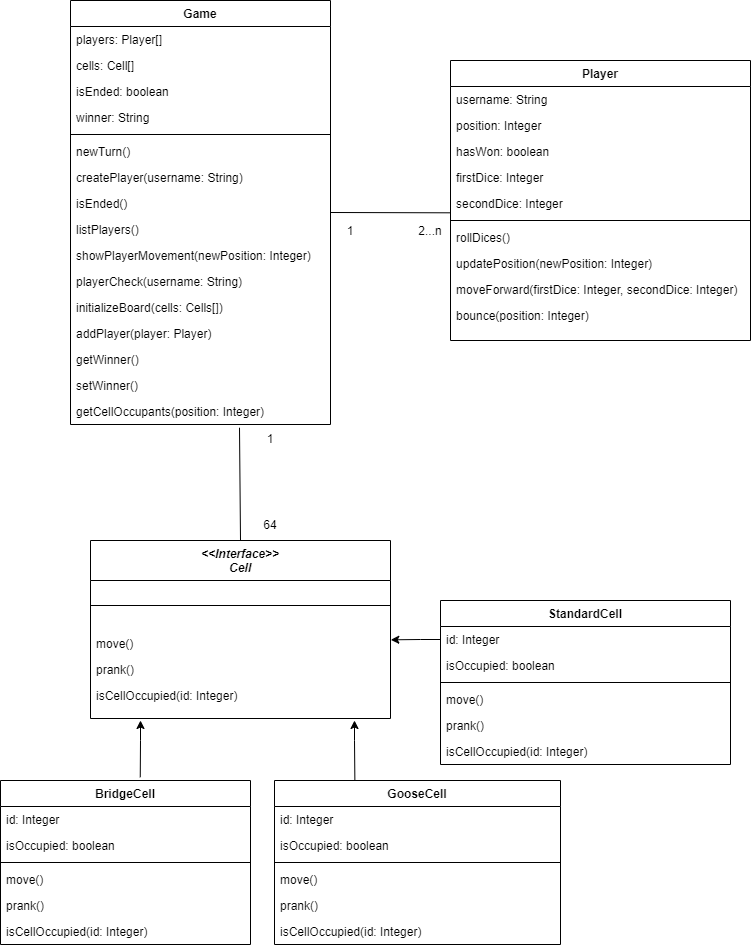
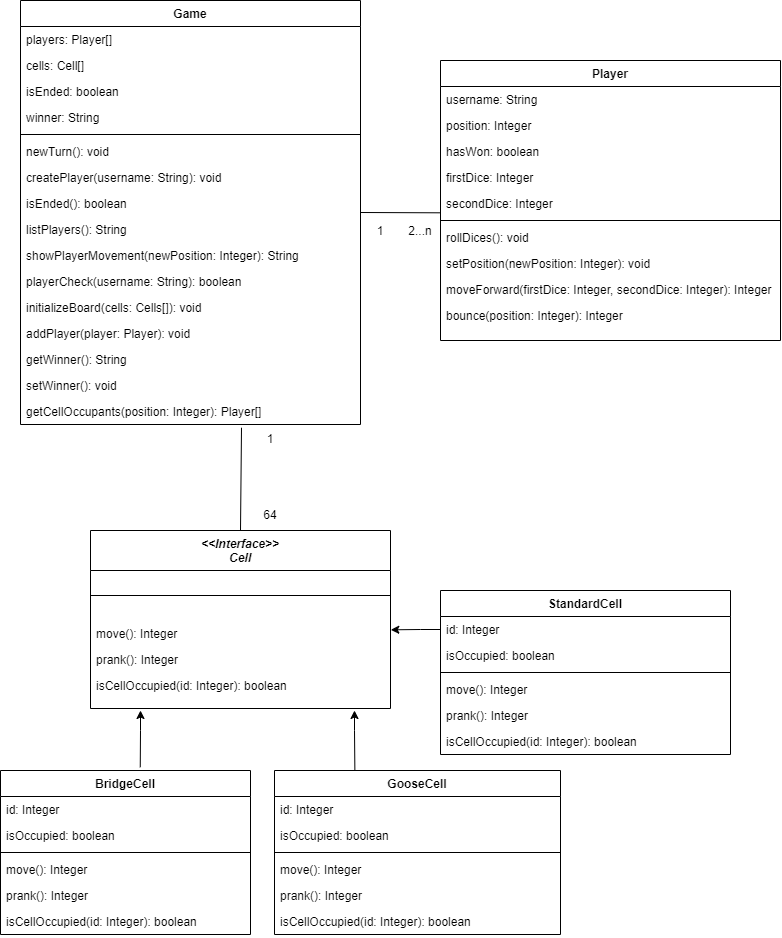
Updated Diagrams

diff --git a/src/main/java/org/thegoosegame/game/Player.java b/src/main/java/org/thegoosegame/game/Player.java
@@ -19,8 +19,8 @@ public class Player {
         return position;
     }
 
-    public void setPosition(int position) {
-        this.position = position;
+    public void setPosition(int newPosition) {
+        this.position = newPosition;
     }
 
     public boolean isHasWon() {

diff --git a/src/main/java/org/thegoosegame/game/Cell.java b/src/main/java/org/thegoosegame/game/Cell.java
@@ -1,6 +1,9 @@
 package org.thegoosegame.game;
 
 public interface Cell {
+    public int move();
 
+    public int prank();
 
+    public boolean isCellOccupied();
 }
